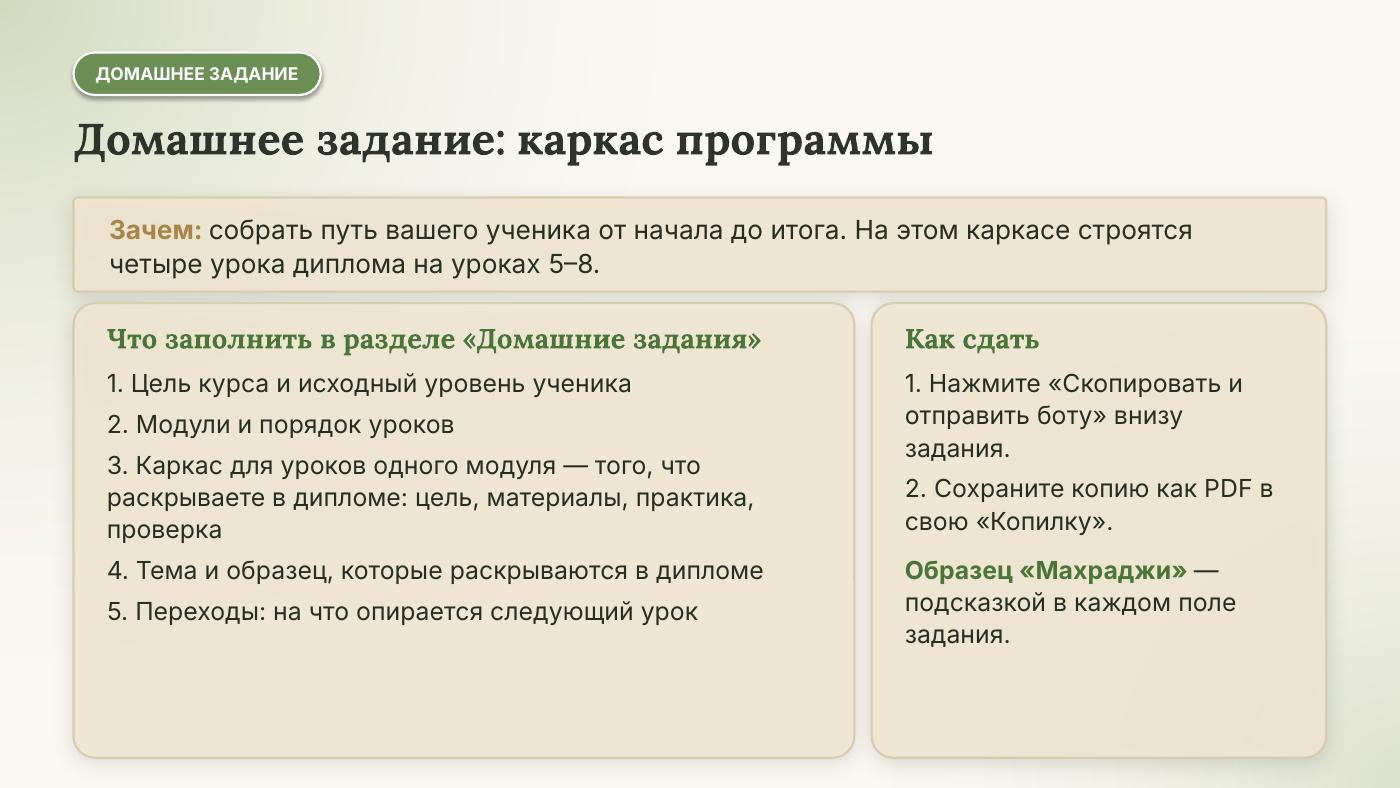
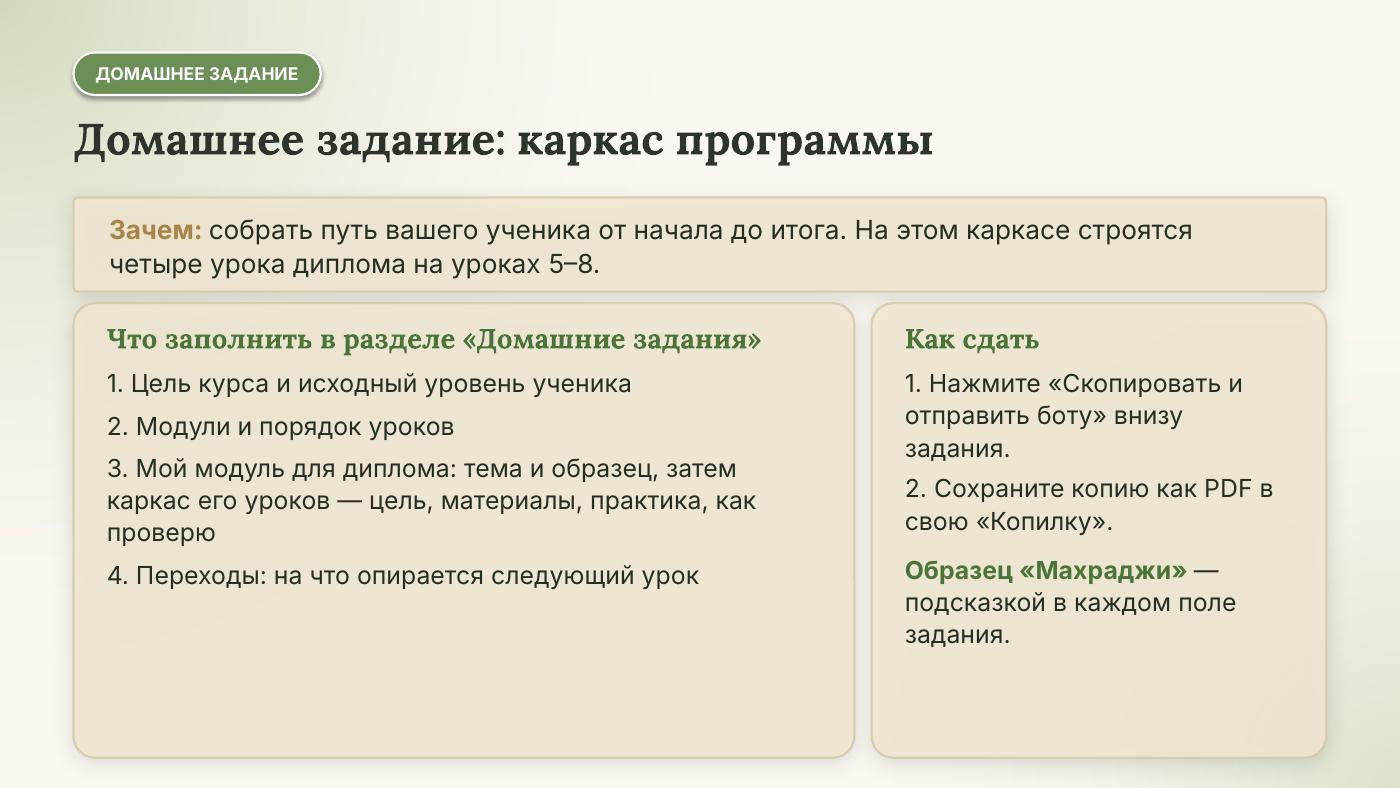
Превью: ДЗ урока 4 — четыре пункта, тема и образец в начале пункта 3
Claude-Session: https://claude.ai/code/session_01QSBLQ1QGNxgcnSucjRRssF

Changed region(s): [[0.0614, 0.5178, 0.5529, 0.7919]]

diff --git a/preview/konstruktor.html b/preview/konstruktor.html
@@ -135,12 +135,13 @@ var L=[
  ['change','Что меняю или добавляю и почему<br><span class=rep>↻ Опирайтесь на причину трудности из урока 2.</span>','Перед чтением слогов показываю, какой частью губ образуется мим, и сравниваю с ба: у мим часть звука уходит в нос, у ба отскок. Потому что ученица не освоила способ определения места образования (урок 2, гипотеза 1)'],
  ['check','Как пойму, что получилось: что ученик сделает сам','Ученица называет место образования и читает 5 слогов без подсказки'],
  ['mine','Моё решение одной строкой','Сравнение мим и ба + самопроверка + критерий «5 слогов без подсказки»']]},
-{n:4,t:'Разработка программы, модулей и уроков',note:'<b>Зачем это задание:</b> чтобы собрать путь вашего ученика от начала до итога. На этом каркасе вы построите четыре урока диплома на уроках 5–8.<br><br><b>Что заполнить — по порядку:</b><br>1. Цель курса и исходный уровень ученика<br>2. Модули и порядок уроков<br>3. Каркас для уроков одного модуля — того, что раскрываете в дипломе<br>4. Тема и образец диплома<br>5. Переходы между уроками<br><br><b>Как:</b> в каждом поле подсказкой стоит образец «Махраджи». Весь курс подробно расписывать не нужно: остальные модули достаточно назвать. Затем нажмите «Скопировать и отправить боту», сохраните копию как PDF и положите в «Копилку».',f:[
+{n:4,t:'Разработка программы, модулей и уроков',note:'<b>Зачем это задание:</b> чтобы собрать путь вашего ученика от начала до итога. На этом каркасе вы построите четыре урока диплома на уроках 5–8.<br><br><b>Что заполнить — по порядку:</b><br>1. Цель курса и исходный уровень ученика<br>2. Модули и порядок уроков<br>3. Мой модуль для диплома: тема и образец, затем каркас его уроков<br>4. Переходы между уроками<br><br><b>Как:</b> в каждом поле подсказкой стоит образец «Махраджи». Весь курс подробно расписывать не нужно: остальные модули достаточно назвать. Затем нажмите «Скопировать и отправить боту», сохраните копию как PDF и положите в «Копилку».',f:[
  ['cgoal','1. Цель курса и исходный уровень ученика<br><span class=rep>↻ Цель — из результата урока 2.</span>','Цель: определять место образования букв и читать без путаницы. Уровень: знают названия букв, читают простые слоги'],
  ['mods','2. Модули и порядок уроков','Модуль 1: махраджи. Модуль 2: сыфаты. Модуль 3: правила. Модуль 4: тасхих (исправление чтения)'],
- ['matrix','3. Каркас уроков одного модуля: по строке на урок — цель · материалы · практика · как проверю','Урок 1 «Махраджи» · определять место образования буквы م · схема и показ · чтение слогов مَ مِ مُ · называет место образования и читает слоги без ошибки'],
- ['dtopic','4. Тема и образец, которые раскрываются в дипломе<br><span class=rep>↻ Образец — раздел из урока 3.</span>','Тема: «Махраджи». Образец: урок о букве م'],
- ['trans','5. Переходы: на что опирается следующий урок','Урок о букве ب опирается на урок о букве م: обе буквы образуются губами']]},
+ ['#','3. Мой модуль для диплома','Подробно расписываете только этот модуль: сначала тема и образец, потом каркас его уроков.'],
+ ['dtopic','Тема модуля и образец в нём<br><span class=rep>↻ Образец — раздел из урока 3.</span>','Модуль «Махраджи». Образец: урок о букве م'],
+ ['matrix','Каркас уроков модуля: по строке на урок — цель · материалы · практика · как проверю','Урок 1 · определять место образования буквы م · схема и показ · чтение слогов مَ مِ مُ · называет место образования и читает слоги без ошибки'],
+ ['trans','4. Переходы: на что опирается следующий урок','Урок о букве ب опирается на урок о букве م: обе буквы образуются губами']]},
 {n:5,t:'Вводный урок · шаблон 1',sk:1,add:1,f:[['s01','Слайд 1 · Титульный','Таджвид для начинающих · учимся произносить буквы из их места и читать без путаницы · [имя] · онлайн, поток 1'],['s02','Слайд 2 · Открытие на выбор автора','Вопрос: «Как вы думаете, где образуется буква م?»'],['s03','Слайд 3 · Образовательный центр и автор','[Название центра]. Я — [имя], преподаю таджвид взрослым и детям'],['s04','Слайд 4 · Для кого этот курс','Для взрослых женщин, которые знают арабские буквы и читают простые слоги'],['s05','Слайд 5 · Чему научитесь','Определять место образования букв, различать близкие буквы, читать слоги и слова'],['s06','Слайд 6 · Программа: разделы','Махраджи · Сыфаты · Правила · Тасхих'],['s07','Слайд 7 · Сроки курса','8 недель, 16 уроков по 40 минут'],['s08','Слайд 8 · Путь по неделям (таблица)','Недели 1–2: махраджи · 3–4: сыфаты · 5–6: правила · 7–8: тасхих'],['s09','Слайд 9 · Как проходят занятия','Онлайн, камера включена, схема на экране, чтение вслух по очереди'],['s10','Слайд 10 · Правила и организация','Приходим вовремя, тетрадь рядом, задание отправляем в группу до следующего урока'],['s11','Слайд 11 · Первые шаги','Распечатать тетрадь, вступить в группу курса'],['s12','Слайд 12 · Вопросы и рефлексия','«Что вам интересно узнать на курсе?»']]},
 {n:6,t:'Первый содержательный урок · шаблон 2',sk:2,add:1,f:[['s01','Слайд 1 · Титульный','Урок 1 модуля «Махраджи» · Буква م'],['s02','Слайд 2 · Дуа, афоризм или мотивация','Мотивация: «Сегодня найдём, где рождается звук»'],['s03','Слайд 3 · Цели урока','Определять место образования буквы م, читать слоги и слова с ней'],['s04','Слайд 4 · План урока','Вход в тему · место образования · чтение слогов · сравнение · итог'],['s05','Слайд 5 · Введение в тему','У каждой буквы есть своё место образования'],['s06','Слайд 6 · Карта темы','Места образования: горло, язык, губы. Сегодня — губы'],['s07','Слайд 7 · С чего начинаем сегодня','Сегодня — буква م'],['s08','Слайд 8 · Определение и правило','م образуется губами'],['s09','Слайд 9 · Образец и демонстрация','Схема и образец чтения: مَ مِ مُ'],['s10','Слайд 10 · Упражнение на слушание и узнавание','Называю слог — ученица показывает, где образуется звук'],['s11','Слайд 11 · Упражнение на чтение или выполнение','Прочитать слоги مَ مِ مُ'],['s12','Слайд 12 · Сравнение','Сравнение: какие ещё буквы образуются губами?'],['s13','Слайд 13 · Типичные ошибки','Читают букву, не показывая место её образования'],['s14','Слайд 14 · Обратная связь','Что получилось, что повторить, один шаг'],['s15','Слайд 15 · Проверка понимания','Назвать место образования م и прочитать 5 слогов'],['s16','Слайд 16 · Термины урока','Буква, звук, место образования (махрадж)'],['s17','Слайд 17 · Рефлексия','«Как я теперь определяю, где образуется م?»'],['s18','Слайд 18 · Домашнее задание','Прочитать слоги и слова с م в тетради, с. 12'],['s19','Слайд 19 · Следующий урок','Буква ب']]},
 {n:7,t:'Продолжение изучения темы · шаблон 3',sk:3,add:1,f:[['s01','Слайд 1 · Титульный','Урок 2 модуля «Махраджи» · Буква ب'],['s02','Слайд 2 · Дуа, афоризм, мотивация или короткая лекция','Мотивация: «Ещё одна буква, которая образуется губами»'],['s03','Слайд 3 · Цели или план урока','Определять место образования буквы ب, читать слоги и слова с ней'],['s04','Слайд 4 · Повторение прошлой темы: опрос','Называю слог с م — ученицы показывают место образования'],['s05','Слайд 5 · Повторение: практика','Прочитать слоги مَ مِ مُ'],['s06','Слайд 6 · Переход к новой теме','«Какие ещё буквы образуются губами?»'],['s07','Слайд 7 · Рассказ о новом элементе','ب образуется губами, как и م'],['s08','Слайд 8 · Практика','Подчеркнуть ب в 8 словах'],['s09','Слайд 9 · Сравнение','Сравнить م и ب: что общего и чем отличаются'],['s10','Слайд 10 · Приём из сингапурской системы','«Выбор и объяснение»: выбери карточку и объясни выбор'],['s11','Слайд 11 · Обратная связь','Что получилось, что повторить, один шаг'],['s12','Слайд 12 · Рефлексия','«Что было самым трудным?»'],['s13','Слайд 13 · Домашнее задание','Прочитать слоги и слова с ب, тетрадь с. 14'],['s14','Слайд 14 · Термины урока','Место образования, губные буквы'],['s15','Слайд 15 · Следующий урок','Следующая буква модуля']]},
@@ -301,7 +302,7 @@ document.getElementById('rsf').onchange=function(e){var r=new FileReader();r.onl
 var CR={1:['Выделена одна главная трудность, она повторяется у разных людей, есть источник','Точка А описывает, что ученик уже умеет и чего пока не умеет, а не возраст или тему','Точку Б можно увидеть или услышать, и она отвечает на главную трудность','Цель (зачем) и результат (что сможет сделать ученик) различаются','Путь ведёт от А к Б; путь (как) и материалы (с помощью чего) не смешаны','Повторяющиеся ответы не противоречат друг другу; что уточнить — названо'],
 2:['Аудитория конкретная, боль и потребность различены','Гипотеза 1: наблюдение, предположение и способ проверки','Статус соответствует тому, была ли проверка','Результат проверяемый: действие, материал, критерий, без помощи','Продукт вытекает из потребности и результата'],
 3:['Гипотеза продукта по шаблону','Пособие и раздел названы','Три вопроса пособию с опорой на ученика','Мой раздел: беру, меняю и почему, как пойму, моё решение'],
-4:['Цель курса проверяемая','Модули и порядок уроков','Каркас модуля: цель, практика, проверка','Образец стоит в каркасе','Переходы между уроками'],
+4:['Цель курса проверяемая','Модули и порядок уроков','Модуль: тема и образец','Каркас модуля: цель, практика, проверка','Переходы между уроками'],
 5:['Заполнены все 12 слайдов шаблона 1','Нет новой темы и домашнего задания','Дополнения, если есть, указаны с местом'],
 6:['Заполнены все 19 слайдов шаблона 2','Есть правило, образец, практика и проверка','Дополнения, если есть, указаны с местом'],
 7:['Заполнены все 15 слайдов шаблона 3','Есть повторение и связка с прошлым уроком','Дополнения, если есть, указаны с местом'],
